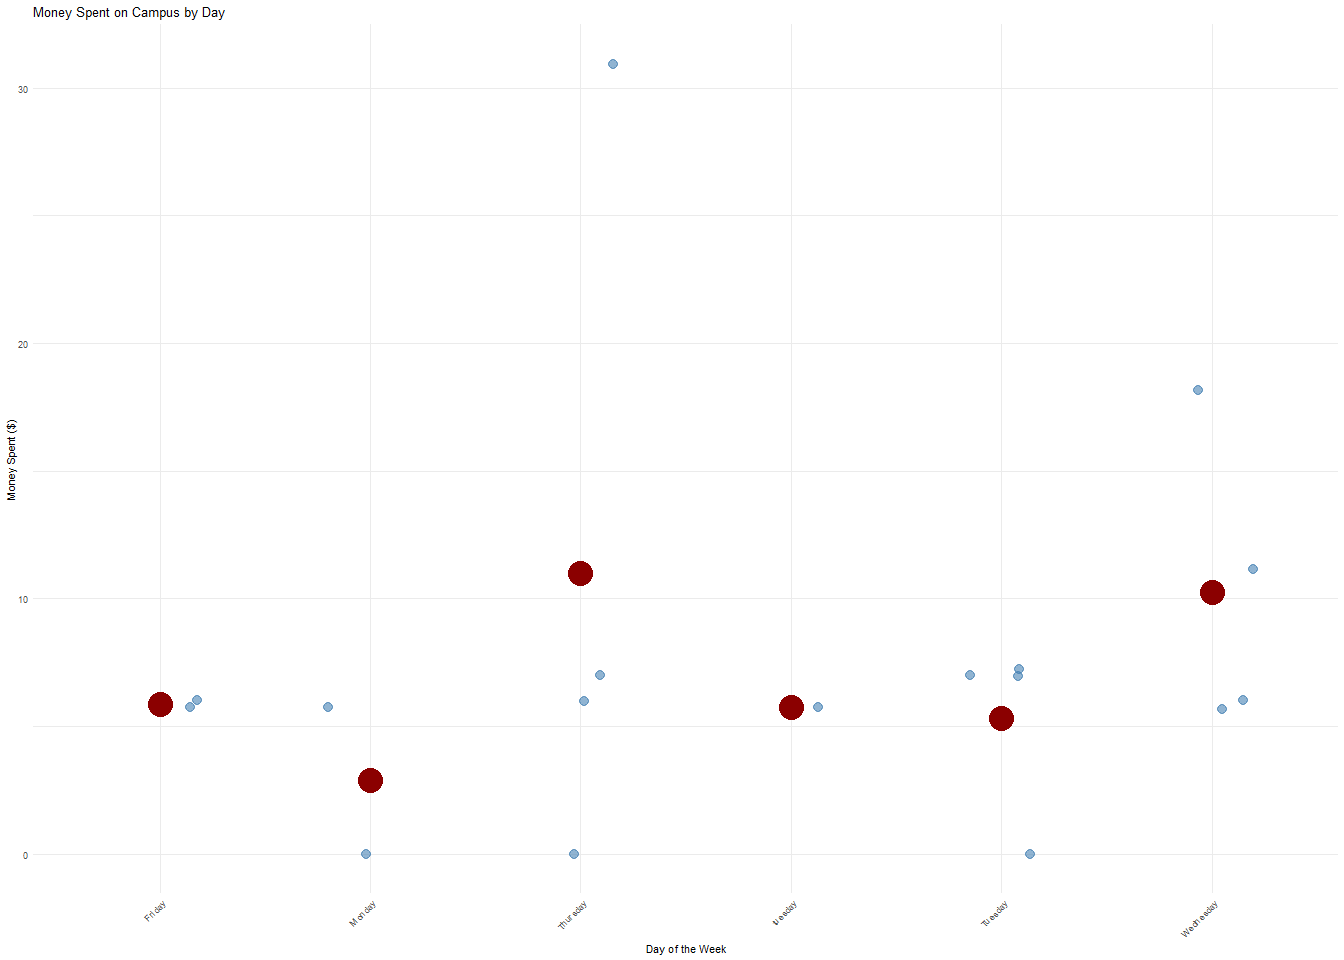
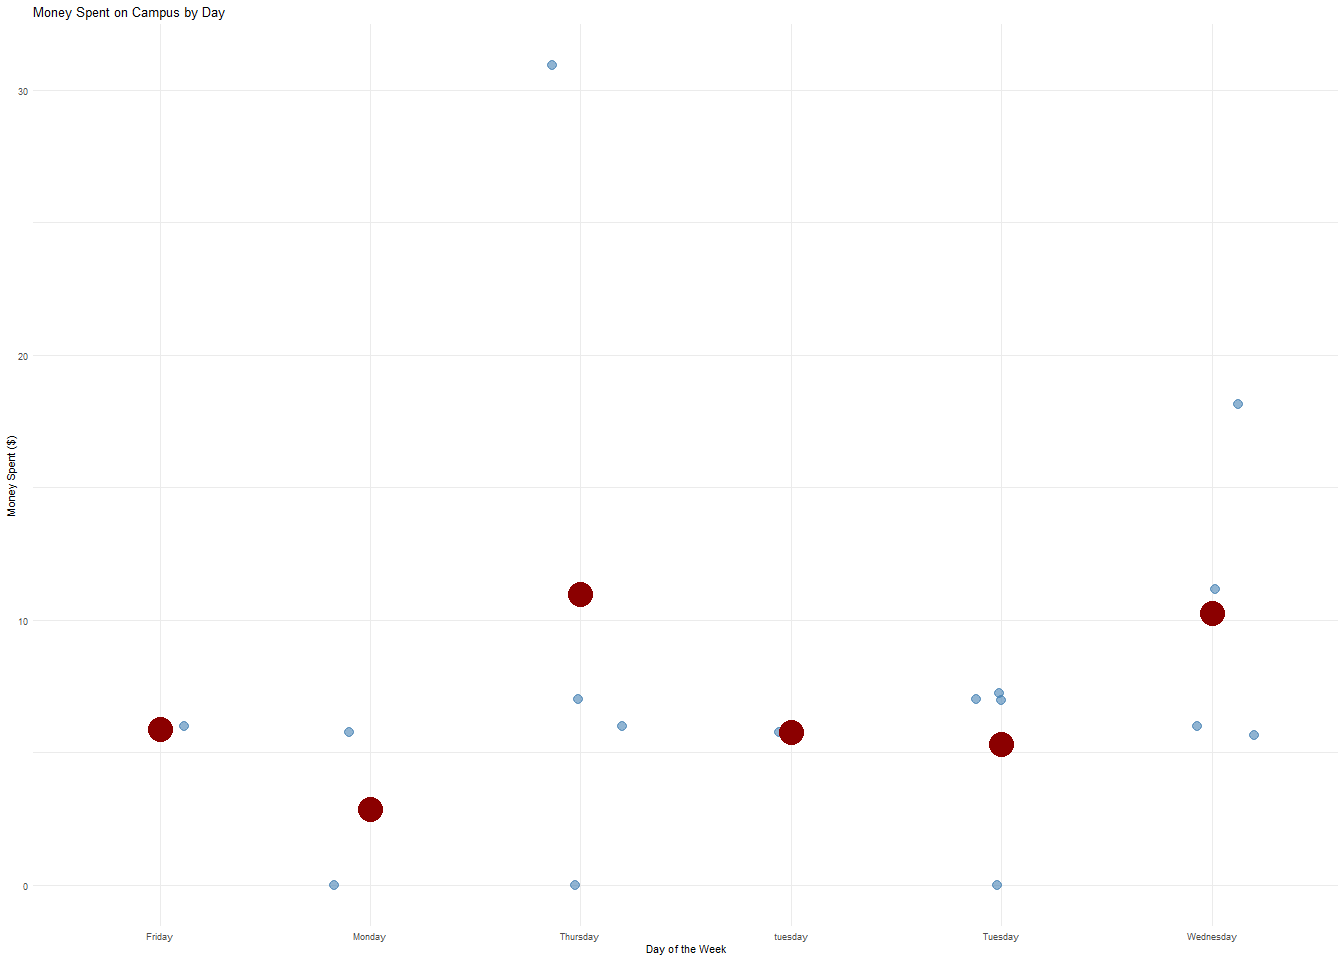
caption for jitter plot

diff --git a/code/DS Homework 3.html b/code/DS Homework 3.html
@@ -109,12 +109,13 @@ pre > code.sourceCode > span > a:first-child::before { text-decoration: underlin
 </div>
 <section id="problem-1.-personal-data" class="level2">
 <h2 class="anchored" data-anchor-id="problem-1.-personal-data">Problem 1. Personal data</h2>
-<section id="a.-data-summarizing" class="level3">
-<h3 class="anchored" data-anchor-id="a.-data-summarizing">a. Data summarizing</h3>
+</section>
+<section id="a.-data-summarizing" class="level1">
+<h1>a. Data summarizing</h1>
 <p>I calculated the Mean amount of money I spent on campus per day of the week. This summary allows me to compare how my spending varies depending on the day because on days that I’m on campus longer I expect to have higher spending.</p>
 </section>
-<section id="b.visualization" class="level3">
-<h3 class="anchored" data-anchor-id="b.visualization">b.Visualization</h3>
+<section id="b.visualization" class="level1">
+<h1>b.Visualization</h1>
 <div class="cell">
 <div class="sourceCode cell-code" id="cb2"><pre class="sourceCode r code-with-copy"><code class="sourceCode r"><span id="cb2-1"><a href="#cb2-1" aria-hidden="true" tabindex="-1"></a><span class="co">#summarizing the mean spending by each day</span></span>
 <span id="cb2-2"><a href="#cb2-2" aria-hidden="true" tabindex="-1"></a></span>
@@ -122,17 +123,20 @@ pre > code.sourceCode > span > a:first-child::before { text-decoration: underlin
 <span id="cb2-4"><a href="#cb2-4" aria-hidden="true" tabindex="-1"></a>  <span class="fu">group_by</span>(day) <span class="sc">|&gt;</span> </span>
 <span id="cb2-5"><a href="#cb2-5" aria-hidden="true" tabindex="-1"></a>  <span class="fu">summarise</span>(<span class="at">mean_spent =</span> <span class="fu">mean</span>(spent, <span class="at">na.rm =</span> <span class="cn">TRUE</span>))</span>
 <span id="cb2-6"><a href="#cb2-6" aria-hidden="true" tabindex="-1"></a></span>
-<span id="cb2-7"><a href="#cb2-7" aria-hidden="true" tabindex="-1"></a><span class="co">#plot data</span></span>
+<span id="cb2-7"><a href="#cb2-7" aria-hidden="true" tabindex="-1"></a><span class="co">#ploting data</span></span>
 <span id="cb2-8"><a href="#cb2-8" aria-hidden="true" tabindex="-1"></a><span class="fu">ggplot</span>(my_data, <span class="fu">aes</span>(<span class="at">x=</span> day, <span class="at">y=</span> spent)) <span class="sc">+</span></span>
-<span id="cb2-9"><a href="#cb2-9" aria-hidden="true" tabindex="-1"></a>  <span class="fu">geom_jitter</span>(<span class="at">width =</span> <span class="fl">0.2</span>, <span class="at">alpha =</span> <span class="fl">0.6</span>, <span class="at">color =</span> <span class="st">"steelblue"</span>) <span class="sc">+</span> </span>
-<span id="cb2-10"><a href="#cb2-10" aria-hidden="true" tabindex="-1"></a>  <span class="fu">stat_summary</span>(<span class="at">fun =</span> mean, <span class="at">geom =</span> <span class="st">"point"</span>, <span class="at">size =</span> <span class="dv">4</span>, <span class="at">color=</span> <span class="st">"darkred"</span>) <span class="sc">+</span></span>
-<span id="cb2-11"><a href="#cb2-11" aria-hidden="true" tabindex="-1"></a>  <span class="fu">labs</span>(</span>
-<span id="cb2-12"><a href="#cb2-12" aria-hidden="true" tabindex="-1"></a>    <span class="at">title =</span> <span class="st">"Money Spent on Campus by Day"</span>,</span>
-<span id="cb2-13"><a href="#cb2-13" aria-hidden="true" tabindex="-1"></a>    <span class="at">x =</span> <span class="st">"Day of the Week"</span>,</span>
-<span id="cb2-14"><a href="#cb2-14" aria-hidden="true" tabindex="-1"></a>    <span class="at">y =</span> <span class="st">"Money Spent ($)"</span></span>
-<span id="cb2-15"><a href="#cb2-15" aria-hidden="true" tabindex="-1"></a>  ) <span class="sc">+</span></span>
-<span id="cb2-16"><a href="#cb2-16" aria-hidden="true" tabindex="-1"></a>  <span class="fu">theme_minimal</span>(<span class="at">base_size =</span> <span class="dv">4</span>) <span class="sc">+</span></span>
-<span id="cb2-17"><a href="#cb2-17" aria-hidden="true" tabindex="-1"></a>  <span class="fu">theme</span>(<span class="at">axis.text.x=</span> <span class="fu">element_text</span>(<span class="at">angle =</span> <span class="dv">45</span>, <span class="at">hjust =</span> <span class="dv">1</span>))</span></code><button title="Copy to Clipboard" class="code-copy-button"><i class="bi"></i></button></pre></div>
+<span id="cb2-9"><a href="#cb2-9" aria-hidden="true" tabindex="-1"></a> <span class="co">#making a jitter plot</span></span>
+<span id="cb2-10"><a href="#cb2-10" aria-hidden="true" tabindex="-1"></a>   <span class="fu">geom_jitter</span>(<span class="at">width =</span> <span class="fl">0.2</span>, <span class="at">alpha =</span> <span class="fl">0.6</span>, <span class="at">color =</span> <span class="st">"steelblue"</span>) <span class="sc">+</span> </span>
+<span id="cb2-11"><a href="#cb2-11" aria-hidden="true" tabindex="-1"></a>  <span class="fu">stat_summary</span>(<span class="at">fun =</span> mean, <span class="at">geom =</span> <span class="st">"point"</span>, <span class="at">size =</span> <span class="dv">4</span>, <span class="at">color=</span> <span class="st">"darkred"</span>) <span class="sc">+</span></span>
+<span id="cb2-12"><a href="#cb2-12" aria-hidden="true" tabindex="-1"></a><span class="co">#adding title of graph and axis</span></span>
+<span id="cb2-13"><a href="#cb2-13" aria-hidden="true" tabindex="-1"></a>    <span class="fu">labs</span>(</span>
+<span id="cb2-14"><a href="#cb2-14" aria-hidden="true" tabindex="-1"></a>    <span class="at">title =</span> <span class="st">"Money Spent on Campus by Day"</span>,</span>
+<span id="cb2-15"><a href="#cb2-15" aria-hidden="true" tabindex="-1"></a>    <span class="at">x =</span> <span class="st">"Day of the Week"</span>,</span>
+<span id="cb2-16"><a href="#cb2-16" aria-hidden="true" tabindex="-1"></a>    <span class="at">y =</span> <span class="st">"Money Spent ($)"</span>,</span>
+<span id="cb2-17"><a href="#cb2-17" aria-hidden="true" tabindex="-1"></a>    <span class="at">size =</span><span class="fl">30.0</span>) <span class="sc">+</span></span>
+<span id="cb2-18"><a href="#cb2-18" aria-hidden="true" tabindex="-1"></a>  <span class="co"># customizing the theme</span></span>
+<span id="cb2-19"><a href="#cb2-19" aria-hidden="true" tabindex="-1"></a>  <span class="fu">theme_minimal</span>(<span class="at">base_size =</span> <span class="dv">4</span>) <span class="sc">+</span></span>
+<span id="cb2-20"><a href="#cb2-20" aria-hidden="true" tabindex="-1"></a>  <span class="fu">theme</span>( )</span></code><button title="Copy to Clipboard" class="code-copy-button"><i class="bi"></i></button></pre></div>
 <div class="cell-output-display">
 <div>
 <figure class="figure">
@@ -141,7 +145,6 @@ pre > code.sourceCode > span > a:first-child::before { text-decoration: underlin
 </div>
 </div>
 </div>
-</section>
 </section>
 <section id="c.-caption" class="level1">
 <h1>c.&nbsp;Caption</h1>
